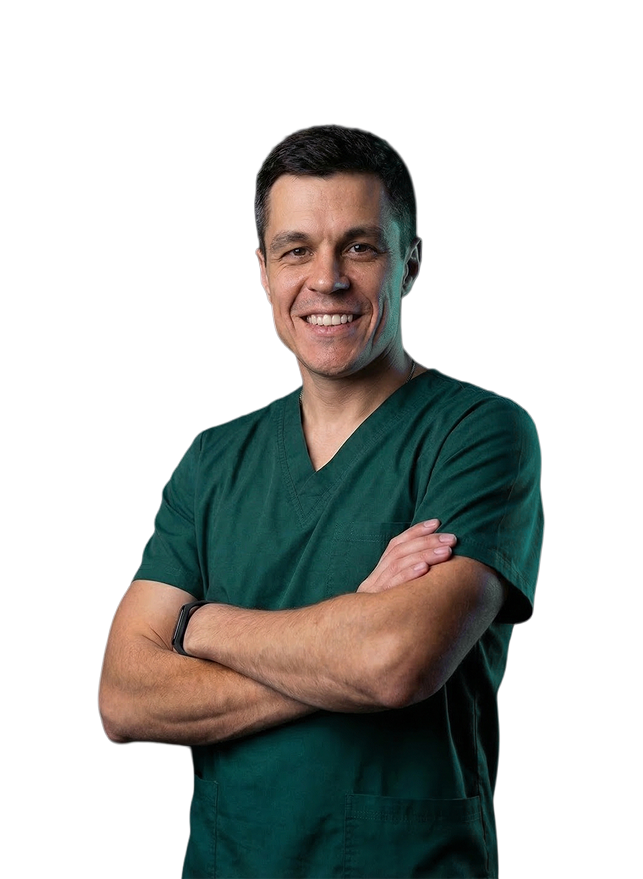
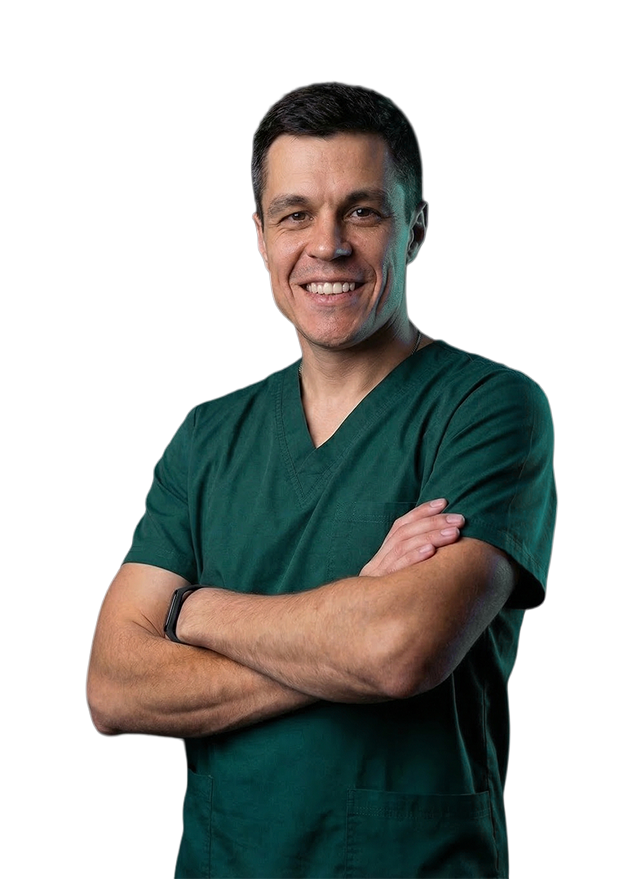
feat: update photo for specialist Albina Akhmetova

Changed region(s): [[0.1244, 0.0922, 0.8709, 1.0]]

diff --git a/src/components/SpecialistsSection.tsx b/src/components/SpecialistsSection.tsx
@@ -5,6 +5,7 @@ import { ImageWithFallback } from "./figma/ImageWithFallback";
 import DiyarPhoto from "../assets/team/Diyar.png";
 import NatalyaPhoto from "../assets/team/Natalya.png";
 import MichailPhoto from "../assets/team/Michail.png";
+import AlbinaPhoto from "../assets/team/Albina.png";
 
 const CLIP = (size: number) =>
   `polygon(${size}px 0, 100% 0, 100% calc(100% - ${size}px), calc(100% - ${size}px) 100%, 0 100%, 0 ${size}px)`;
@@ -17,8 +18,7 @@ const specialists = [
     ghostName: "АХМЕТОВА",
     role: "логопед-дефектолог\nнейропсихолог\nАВА-специалист",
     tag: "Педагогика",
-    photo:
-      "https://images.unsplash.com/photo-1772987057599-2f1088c1e993?crop=entropy&cs=tinysrgb&fit=max&fm=jpg&ixid=M3w3Nzg4Nzd8MHwxfHNlYXJjaHwxfHxwcm9mZXNzaW9uYWwlMjB3b21hbiUyMGRvY3RvciUyMHNwZWNpYWxpc3QlMjBwb3J0cmFpdHxlbnwxfHx8fDE3NzM3NjE4NzR8MA&ixlib=rb-4.1.0&q=80&w=1080",
+    photo: AlbinaPhoto.src,
   },
   {
     id: 2,
